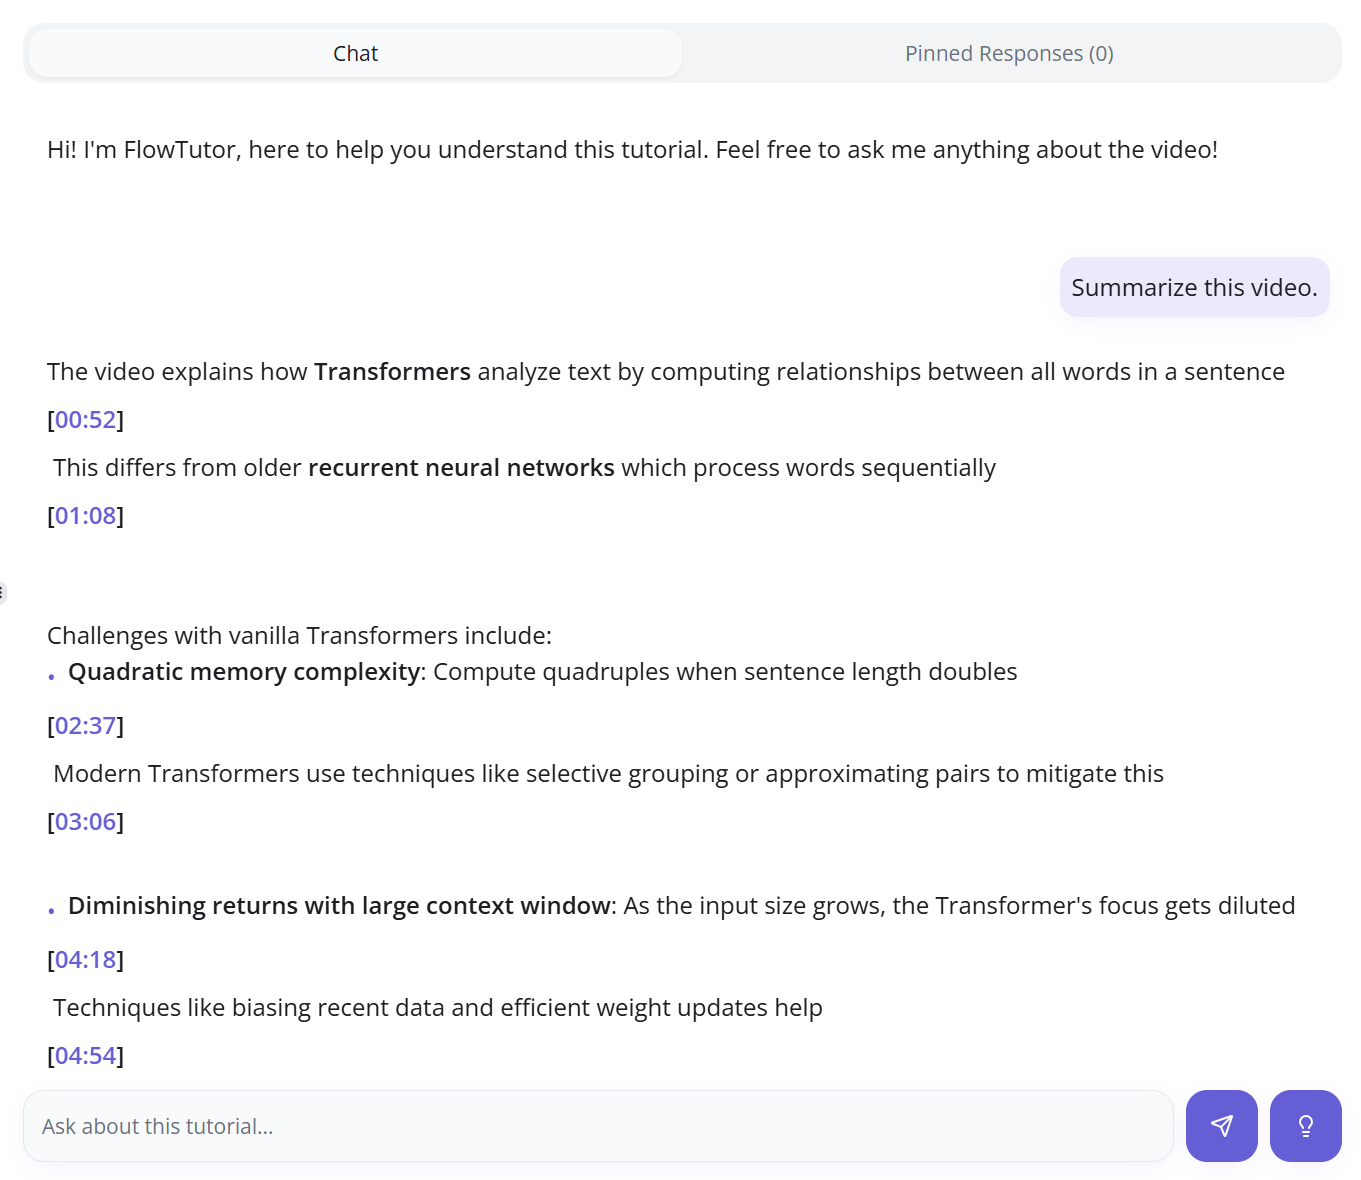
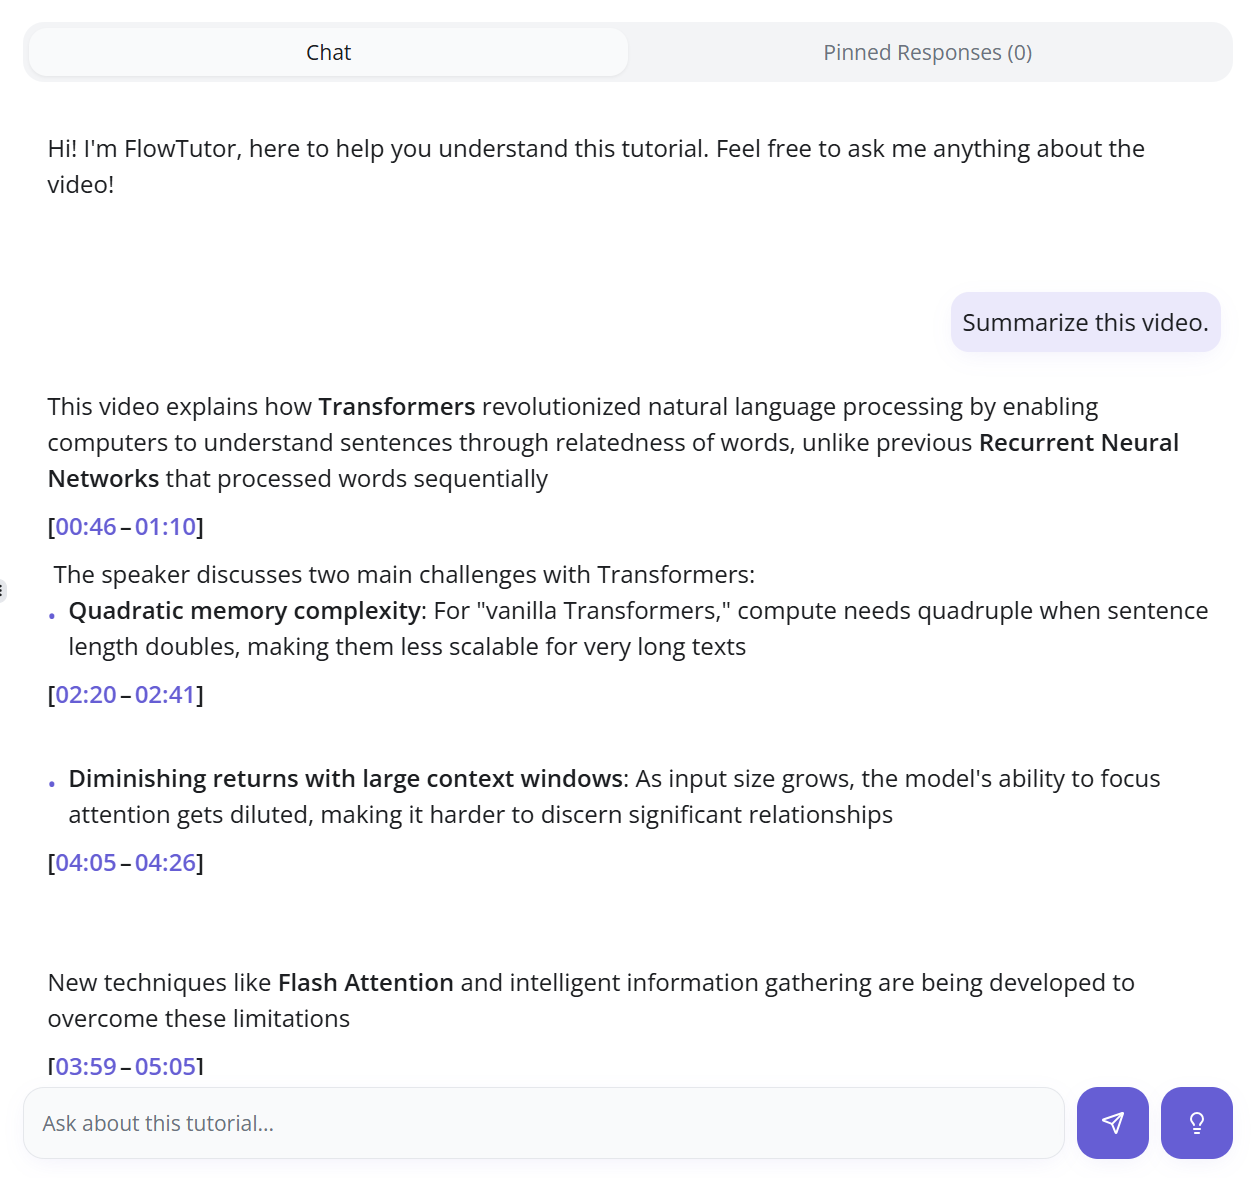
FlowTutor case study

diff --git a/src/pages/FlowTutorCaseStudy.tsx b/src/pages/FlowTutorCaseStudy.tsx
@@ -1055,8 +1055,14 @@ const ScrollytellingFeatures = () => {
                   {/* Dim everything except chat panel */}
                   <div className="absolute inset-0 bg-black/70" />
                   {/* Highlight chat panel (right side) */}
-                  <div className="absolute right-0 top-0 bottom-0 w-[50%] bg-transparent">
-                    <div className="absolute inset-0 border-4 border-purple-400 rounded-r-2xl shadow-[0_0_30px_rgba(168,85,247,0.6)]" />
+                  <div className="absolute right-0 top-7 bottom-3 w-[50%] h-[82%] bg-transparent">
+                    <div className="absolute inset-0 border-4 border-purple-400 shadow-[0_0_30px_rgba(168,85,247,0.6)]" />
+                    {/* Chat image overlay */}
+                    <img
+                      src={ftFeature2}
+                      alt="FlowTutor Chat Panel"
+                      className="absolute inset-0 w-full h-full object-cover"
+                    />
                   </div>
                 </motion.div>
               )}
